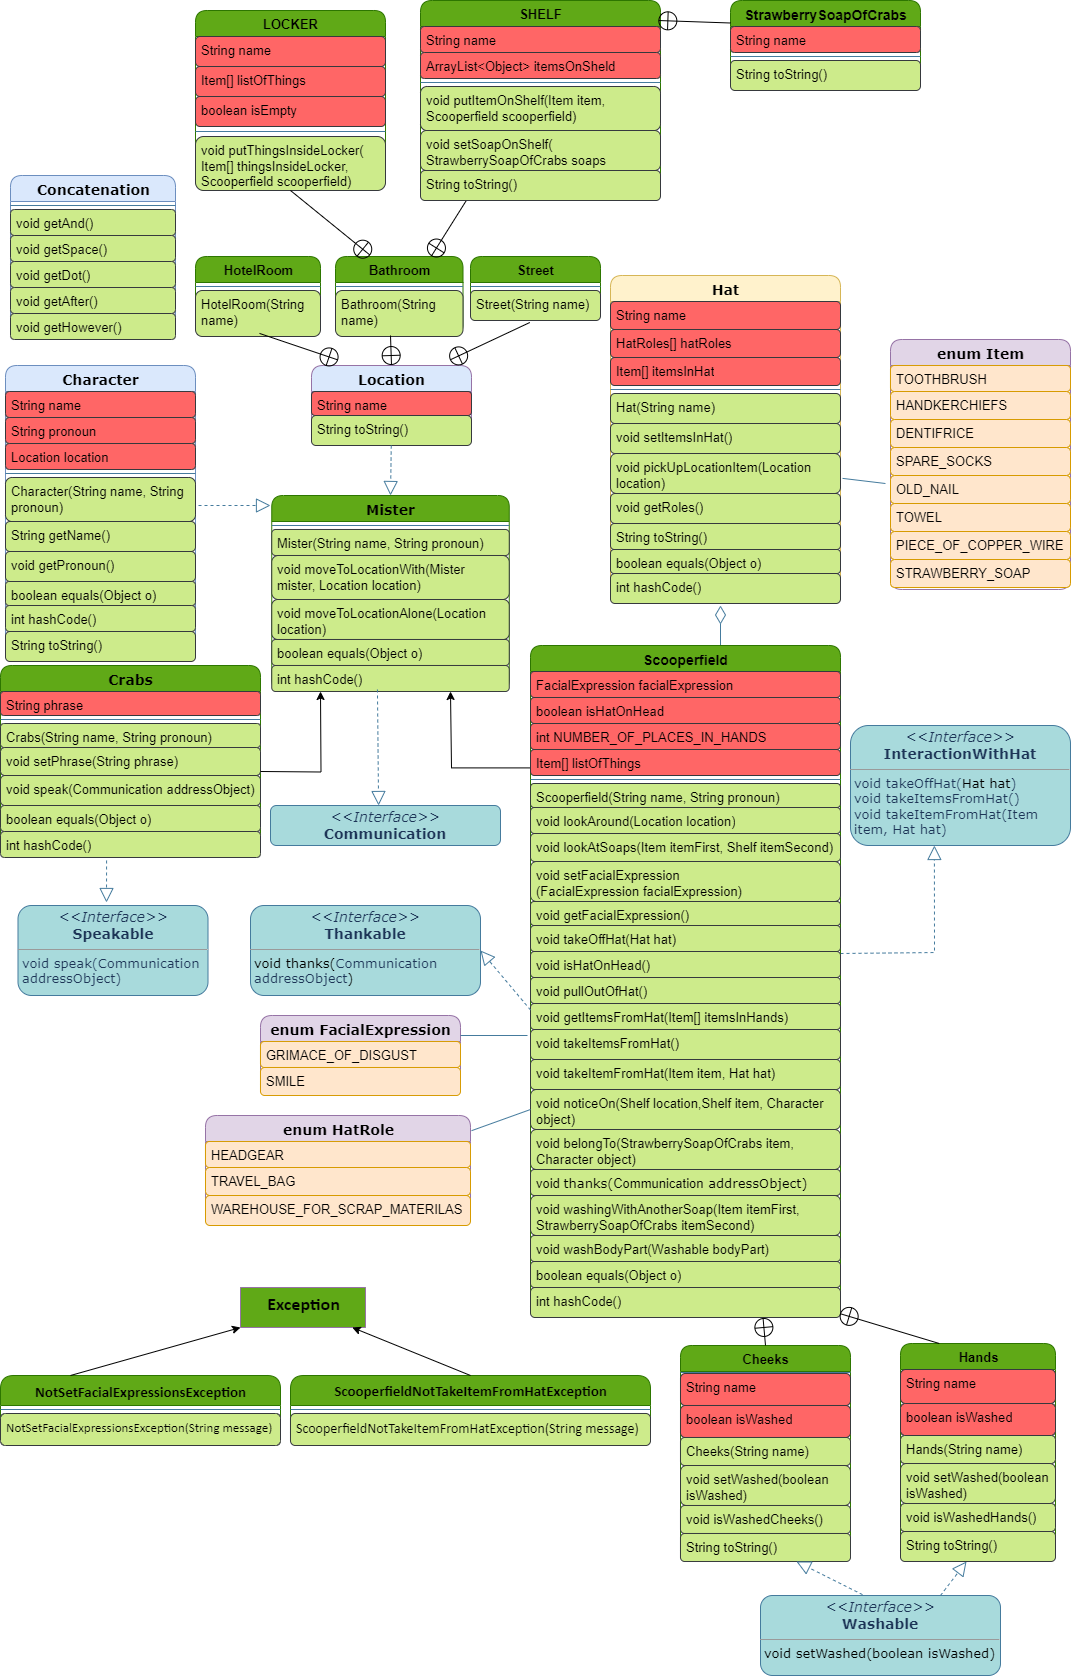
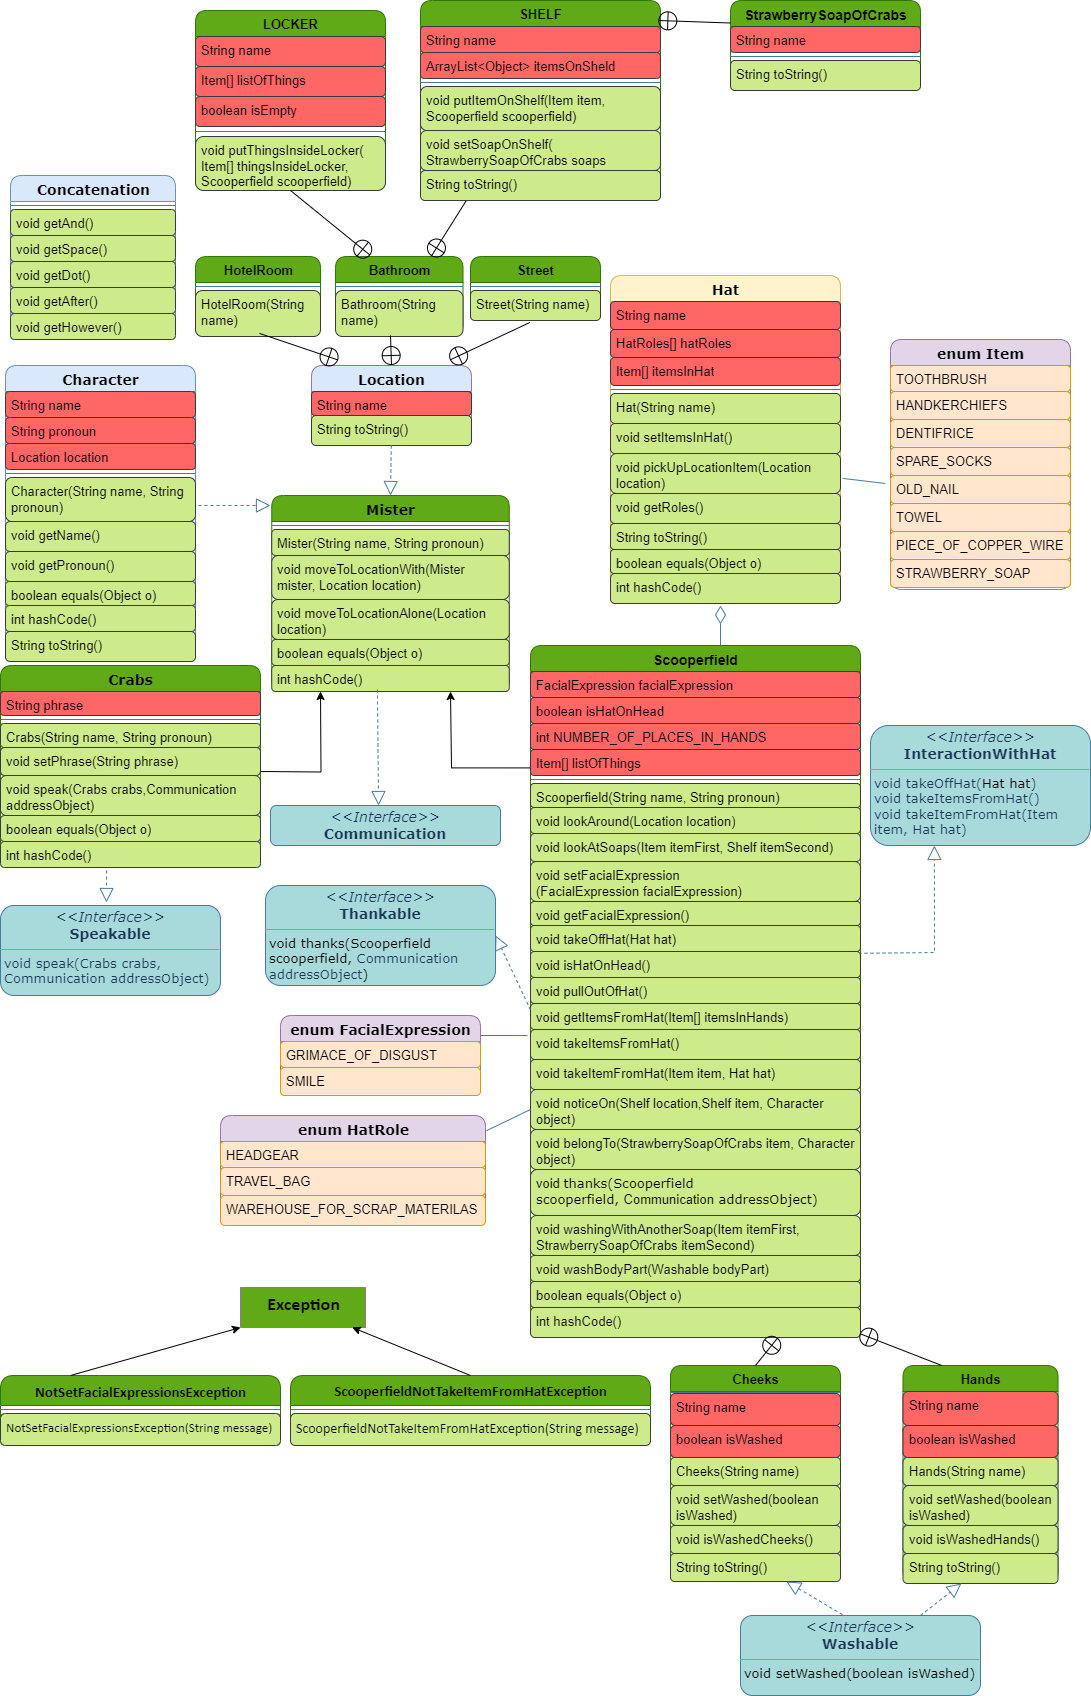
1.Changed method speak(); 2.Changed method thanks(); 3.Changed method getName(); 4.Updated UML;

Changed region(s): [[0.0, 0.0, 1.0, 1.0]]

diff --git a/src/main/java/Main.java b/src/main/java/Main.java
@@ -52,13 +52,13 @@ public class Main {
 
     public static void main(String[] args) throws NotSetFacialExpressionsException {
         // Выводи на экран имя объекта crabs
-        System.out.print(crabs);
+        crabs.getName();
         // Выводим на экран куда и с кем перемещается персонаж
         crabs.moveToLocationWith(scooperfield, hotelRoom);
         // Задаем фразу которую говорит Крабс
         crabs.setPhrase("You need to wash your face!");
         // Выводим на экран что говорит Крабс
-        crabs.speak(scooperfield);
+        crabs.speak(crabs, scooperfield);
         // Скоперфильд осматривает локацию (можно выбрать)
         scooperfield.lookAround(hotelRoom);
         // Соединяем строки
@@ -68,7 +68,7 @@ public class Main {
         // Выводим текст сравнения выражение лица
         scooperfield.getFacialExpression();
         // Кого благодарит Scooperfield
-        scooperfield.thanks(crabs);
+        scooperfield.thanks(scooperfield, crabs);
         // Соединяем строки
         concatenation.getAnd();
         // Выводим на экран куда перемещается персонаж
@@ -97,7 +97,7 @@ public class Main {
         // Кладем массив из предметов в шкафчик
         locker.putThingsInsideLocker(scooperfield.listOfThings, scooperfield);
         // Достаем мыло из шляпы
-        System.out.print(scooperfield);
+        scooperfield.getName();
         scooperfield.takeItemFromHat(Item.STRAWBERRY_SOAP, hat);
         // Сеттим обеъект мыло на полку
         shelf.setSoapOnShelf(strawberrySoapOfCrabs);
@@ -107,10 +107,8 @@ public class Main {
         scooperfield.belongTo(strawberrySoapOfCrabs, crabs);
         // Метод положить рядом на полку
         shelf.putItemOnShelf(Item.STRAWBERRY_SOAP, scooperfield);
-        // Скуперфильд
-        System.out.print(scooperfield);
         // Метод смотреть на предметы
-        scooperfield.lookAtSoaps(Item.STRAWBERRY_SOAP, strawberrySoapOfCrabs);
+        scooperfield.lookAtSoaps(scooperfield, Item.STRAWBERRY_SOAP, strawberrySoapOfCrabs);
         // after that
         concatenation.getAfter();
         // Местоимение he

diff --git a/src/main/java/actors/Scooperfield.java b/src/main/java/actors/Scooperfield.java
@@ -34,8 +34,8 @@ public class Scooperfield extends Mister implements Thankable, InteractionWithHa
     }
 
     // Метод "Смотреть на два разных мыла"
-    public void lookAtSoaps(Item itemFirst, Bathroom.Shelf.StrawberrySoapOfCrabs itemSecond) {
-        System.out.print(" looked at " + itemFirst + " and " + itemSecond + " for a while,");
+    public void lookAtSoaps(Scooperfield scooperfield, Item itemFirst, Bathroom.Shelf.StrawberrySoapOfCrabs itemSecond) {
+        System.out.print(scooperfield + " looked at " + itemFirst + " and " + itemSecond + " for a while,");
     }
 
     // Метод "Настроить гримасу на лице Скуперфильда (только smile или grimace of disgust)"
@@ -131,8 +131,8 @@ public class Scooperfield extends Mister implements Thankable, InteractionWithHa
 
     @Override
     // Переопределяем метод интерфейса. Говорит ли Скопрефильд спасибо и кому
-    public void thanks(Communication addressObject) {
-        System.out.println(getName() + " thanked " + addressObject);
+    public void thanks(Scooperfield scooperfield, Communication addressObject) {
+        System.out.println(scooperfield + " thanked " + addressObject);
     }
 
     // Метод "Помыть с помощью другого мыла"

diff --git a/src/main/java/actors/Crabs.java b/src/main/java/actors/Crabs.java
@@ -23,8 +23,8 @@ public class Crabs extends Mister implements Speakable {
 
     // Переопределяем метод интерфейса.Вывести на экран слова Crabs и к кому они направлены
     @Override
-    public void speak(Communication addressObject) {
-        System.out.println(getName() + " said: " + this.phrase + " - to " + addressObject + ". ");
+    public void speak(Crabs crabs, Communication addressObject) {
+        System.out.println(crabs + " said: " + this.phrase + " - to " + addressObject + ". ");
     }
 
     // Переопределение метода equals

diff --git a/src/main/java/actors/Character.java b/src/main/java/actors/Character.java
@@ -21,8 +21,8 @@ abstract class Character {
     }
 
     // Метод "Получить имя"
-    public String getName() {
-        return this.name;
+    public void getName() {
+        System.out.print(this.name);
     }
 
     // Метод "Получить местоимение"

diff --git a/src/main/java/interfaces/Speakable.java b/src/main/java/interfaces/Speakable.java
@@ -1,6 +1,8 @@
 package interfaces;
 
+import actors.Crabs;
+
 public interface Speakable {
     // Вывести на экран фразу и к кому она направлена
-    void speak(Communication addressObject);
+    void speak(Crabs crabs, Communication addressObject);
 }

diff --git a/src/main/java/interfaces/Thankable.java b/src/main/java/interfaces/Thankable.java
@@ -1,6 +1,8 @@
 package interfaces;
 
+import actors.Scooperfield;
+
 public interface Thankable {
     // Сказать спасибо
-    void thanks(Communication addressObject);
+    void thanks(Scooperfield scooperfield, Communication addressObject);
 }
